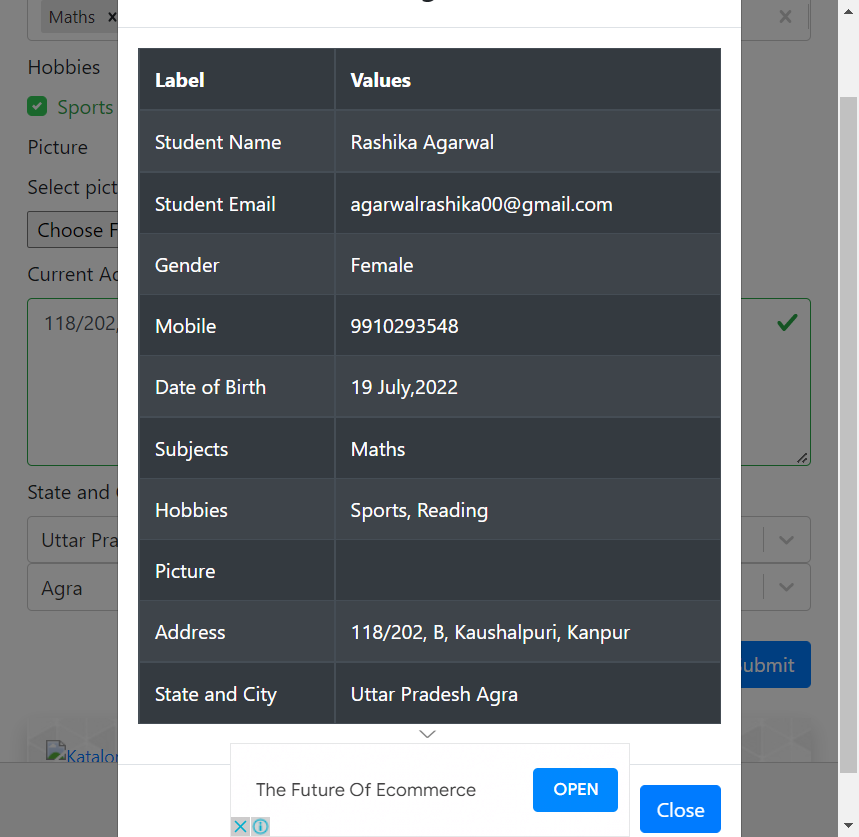
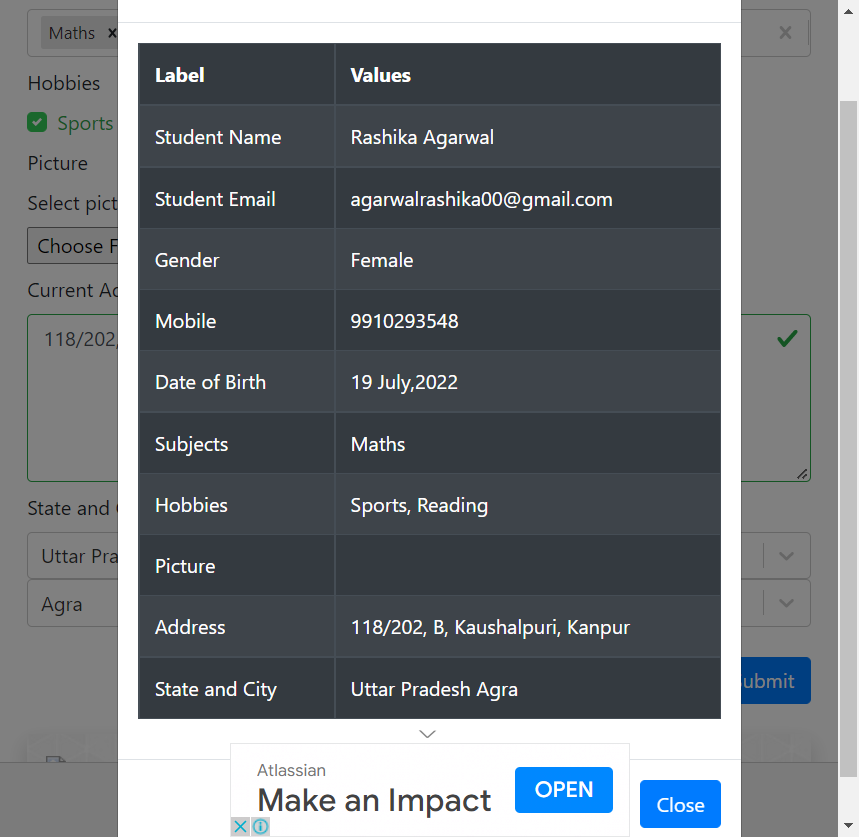
scroll to bottom of page

diff --git a/features/step_definitions/populate_page_steps.rb b/features/step_definitions/populate_page_steps.rb
@@ -11,6 +11,8 @@ When("I populate the page with data for {string}") do |user|
 end
 
 Then("submit the form and take screenshot of the output for {string}") do |user|
+    @browser.execute_script("window.scrollTo(0, document.body.scrollHeight)")
+    sleep 2
     @google_search.submit_form
     sleep 2
     @google_search.save_screenshot(user)
